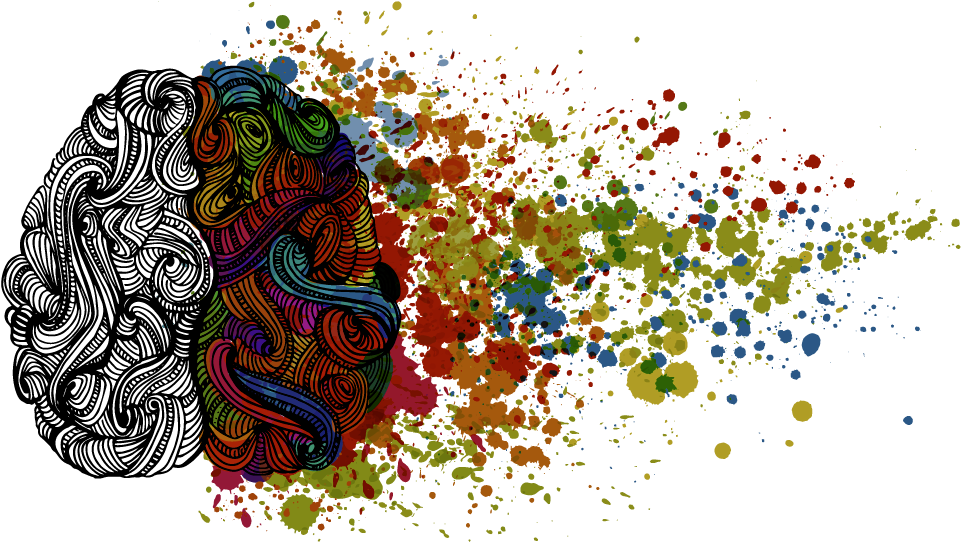
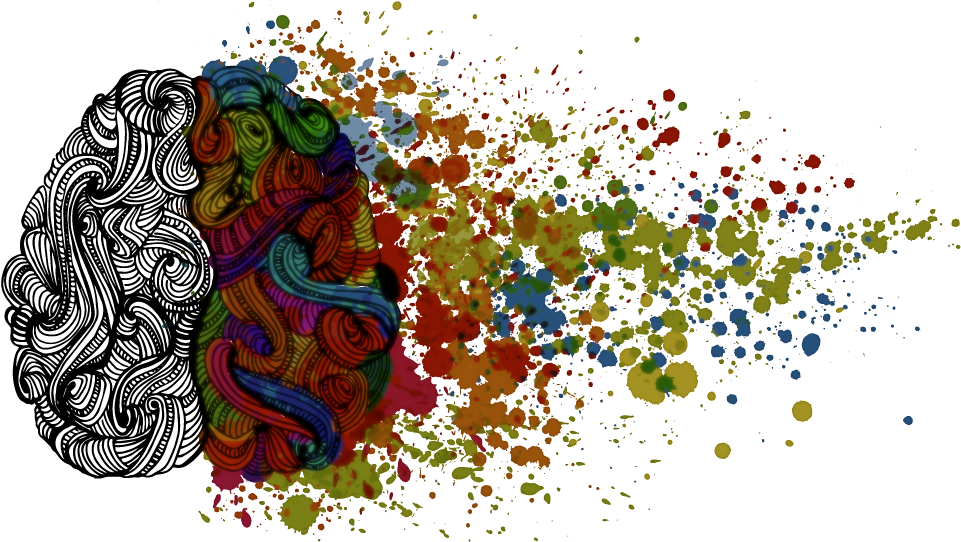
background image fixed to welcome page only

diff --git a/mental-help/src/components/homepage.css b/mental-help/src/components/homepage.css
@@ -1,24 +1,21 @@
 html {
-  background-image: url("/brain.png");
-  background-repeat: no-repeat;
-  background-position: 5% 190%;
   background-color: #32435b;
-  /* max-width: 100%; */
 }
 .homepageDiv {
   display: flex;
   justify-content: center;
   align-items: center;
   flex-direction: column;
-  margin-top: 5%;
+  margin-top: 0;
   backdrop-filter: blur(1.2px);
+  height: 1000px;
 }
 .hp-h1 {
   font-family: "Raleway", sans-serif;
   font-size: 5rem;
   color: #f3f2f5;
   filter: brightness(500%);
-  text-shadow: 2px 2px 0 rgb(165, 140, 126);
+  text-shadow: 4px 4px 0 rgba(2, 1, 1, 0.952);
 }
 .homepage-p {
   margin: 0 90px;
@@ -27,7 +24,7 @@ html {
   color: #f3f2f5;
   font-family: "Eczar", serif;
   filter: brightness(500%);
-  text-shadow: 1px 1px 0 rgb(165, 140, 126);
+  text-shadow: 4px 4px 0 rgba(2, 1, 1, 0.952);
 }
 
 .divButton {
@@ -49,6 +46,7 @@ html {
 
 .link-btn {
   color: #f3f2f5;
+  text-shadow: 4px 4px 0 rgba(2, 1, 1, 0.952);
 }
 .link-btn,
 .start-btn {

diff --git a/mental-help/src/components/Homepage.jsx b/mental-help/src/components/Homepage.jsx
@@ -6,8 +6,13 @@ import './homepage.css'
 
 function Homepage(props) {
   return (
-    <div className="homepageDiv" >
-
+    <div className="homepageDiv" style={{
+      backgroundImage: `url("/brain.png")`,
+      backgroundRepeat: "no-repeat",
+      backgroundPosition: "5% 100%",
+      height: '700px',
+     
+    }} >
       <h1 className="hp-h1">Welcome</h1>
       <p className="homepage-p">
         Mental Help is a website that allows you to log your feelings and cope

diff --git a/mental-help/src/components/Resources.jsx b/mental-help/src/components/Resources.jsx
@@ -1,10 +1,11 @@
 import React from 'react';
 import NavBar from './NavBar';
+import './resources.css'
 
 function Resources(props) {
   return (
-    <>
-    <div>
+    <div className='main-rsc-div'>
+    <div >
       <NavBar/>
       <h1>Resources:</h1>
       <h2>GROUNDING TECHNIQUES FOR WHEN YOU FEEL ANXIOUS OR OVERWHELMED:</h2>
@@ -23,7 +24,7 @@ function Resources(props) {
       <div>
         <h1>Find Help: </h1>  
       </div>
-    </>
+    </div>
   );
 }
 

diff --git a/mental-help/src/App.js b/mental-help/src/App.js
@@ -19,6 +19,7 @@ function App() {
   const [affirmations, setAffirmations] = useState([])
   const [doneList, setDoneList] = useState([])
   const [fetchData, setFetchData] = useState(false);
+  
 
   useEffect(() => {
     const getLog = async () => {
